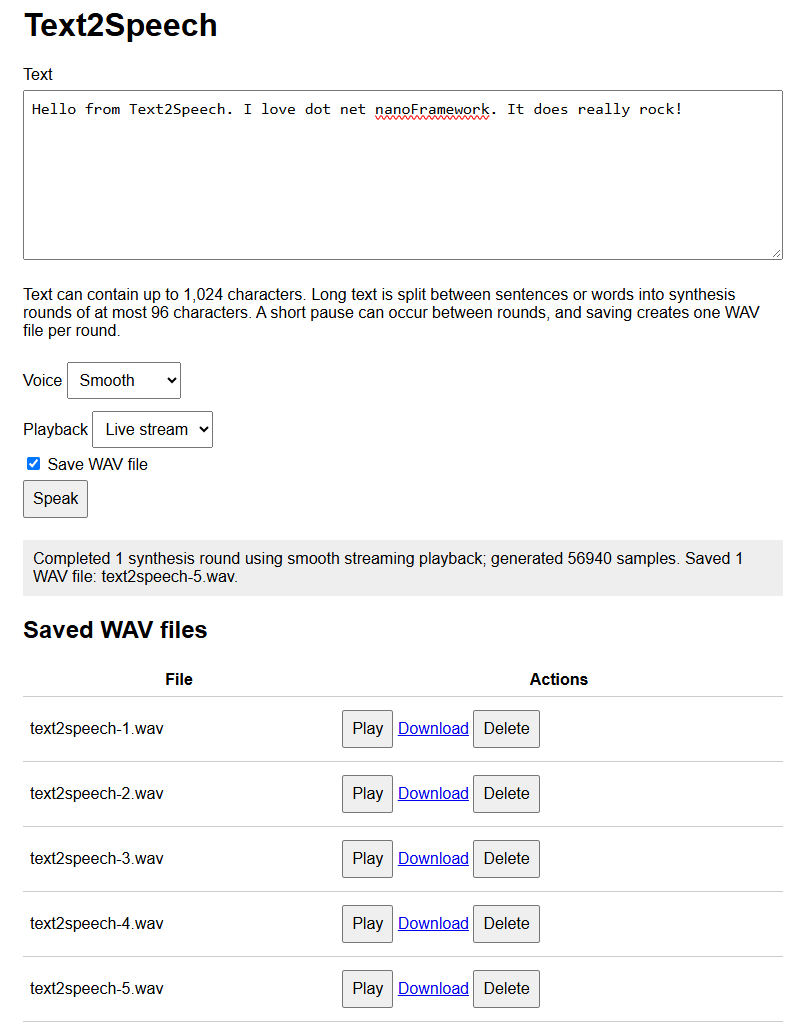
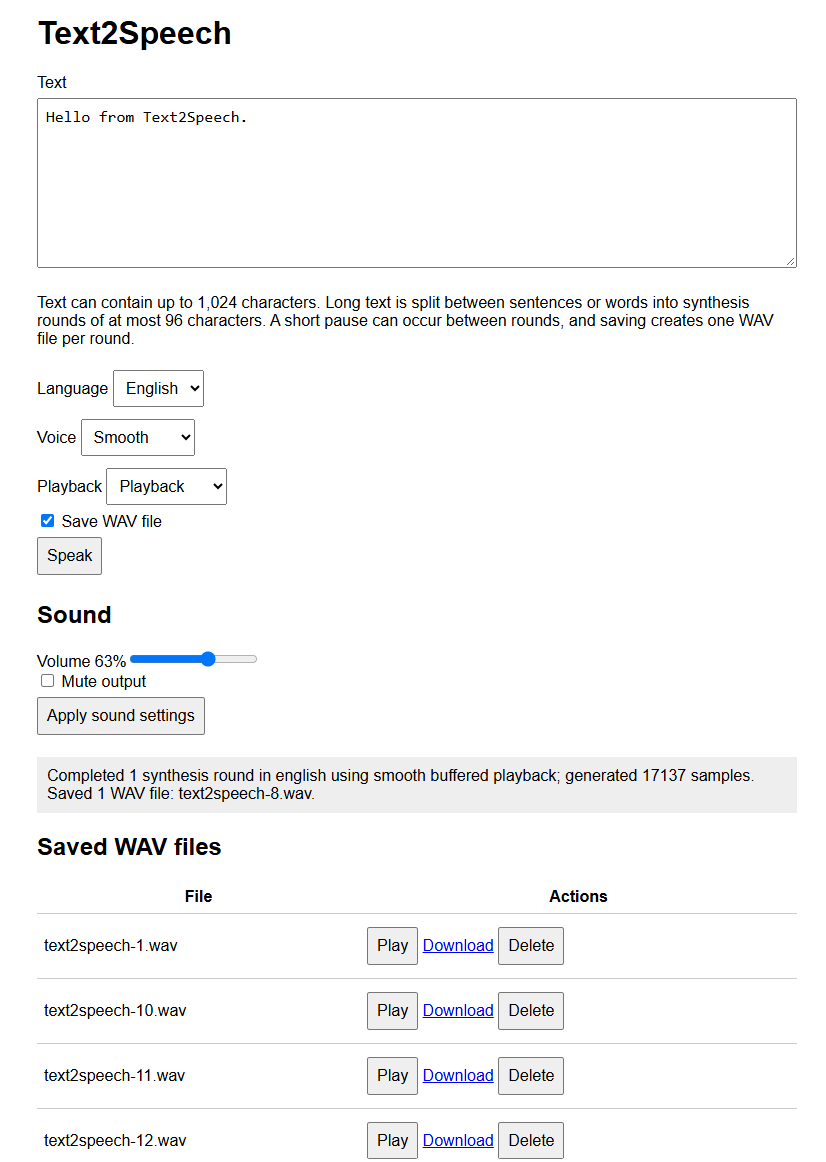
few more adjustements

diff --git a/devices/Text2Speech/samples/Text2Speech.WebServerSample/Controllers/TtsController.cs b/devices/Text2Speech/samples/Text2Speech.WebServerSample/Controllers/TtsController.cs
@@ -122,6 +122,13 @@ namespace Iot.Device.Text2Speech.WebServerSample
             + "<option value='streaming'>Live stream</option></select></label>"
             + "<label><input type='checkbox' name='save' value='true' checked> Save WAV file</label>"
             + "<button type='submit'>Speak</button></form>"
+            + "<h2>Sound</h2><form id='sound'><label>Volume <output id='volumeValue'>"
+            + Esp32S3BoxLiteWavPlayer.DefaultVolumePercent.ToString()
+            + "%</output><input id='volume' type='range' name='volume' min='0' max='100' value='"
+            + Esp32S3BoxLiteWavPlayer.DefaultVolumePercent.ToString()
+            + "' oninput=\"document.getElementById('volumeValue').textContent=this.value+'%'\"></label>"
+            + "<label><input type='checkbox' name='muted' value='true'> Mute output</label>"
+            + "<button type='submit'>Apply sound settings</button></form>"
             + "<p id='status' class='status'>Ready.</p><h2>Saved WAV files</h2>"
             + "<div id='files'>Loading...</div><script>"
             + "async function loadFiles(){let r=await fetch('/files');document.getElementById('files').innerHTML=await r.text();}"
@@ -130,6 +137,11 @@ namespace Iot.Device.Text2Speech.WebServerSample
             + "try{let r=await fetch('/speak',{method:'POST',headers:{'Content-Type':'application/x-www-form-urlencoded'},"
             + "body:new URLSearchParams(new FormData(this))});s.textContent=await r.text();await loadFiles();}"
             + "catch(x){s.textContent='Request failed: '+x;}};"
+            + "document.getElementById('sound').onsubmit=async function(e){e.preventDefault();"
+            + "let s=document.getElementById('status');s.textContent='Applying sound settings...';"
+            + "try{let r=await fetch('/sound',{method:'POST',headers:{'Content-Type':'application/x-www-form-urlencoded'},"
+            + "body:new URLSearchParams(new FormData(this))});s.textContent=await r.text();}"
+            + "catch(x){s.textContent='Sound request failed: '+x;}};"
             + "async function playFile(f){let s=document.getElementById('status');s.textContent='Playing WAV...';"
             + "try{let r=await fetch('/play',{method:'POST',headers:{'Content-Type':'application/x-www-form-urlencoded'},"
             + "body:new URLSearchParams(new FormData(f))});s.textContent=await r.text();}"
@@ -290,6 +302,50 @@ namespace Iot.Device.Text2Speech.WebServerSample
             catch (Exception ex)
             {
                 WriteFailure(e.Context.Response, "Speech request failed", ex);
+            }
+        }
+
+        /// <summary>
+        /// Updates the shared codec volume and mute state.
+        /// </summary>
+        /// <param name="e">The web server request.</param>
+        [Route("sound")]
+        [Method("POST")]
+        public void Sound(WebServerEventArgs e)
+        {
+            try
+            {
+                UrlParameter[] form = ReadForm(e.Context.Request);
+                byte volume;
+                if (!TryParseVolume(GetFormValue(form, "volume"), out volume))
+                {
+                    WriteResponse(
+                        e.Context.Response,
+                        HttpStatusCode.BadRequest,
+                        "text/plain",
+                        "Volume must be an integer from 0 through 100.");
+                    return;
+                }
+
+                bool muted = GetFormValue(form, "muted") == "true";
+                lock (OperationLock)
+                {
+                    _player.Volume = volume;
+                    _player.Muted = muted;
+                }
+
+                string message = muted
+                    ? "Sound muted at " + volume.ToString() + "% volume."
+                    : "Volume set to " + volume.ToString() + "%.";
+                WriteResponse(
+                    e.Context.Response,
+                    HttpStatusCode.OK,
+                    "text/plain",
+                    message);
+            }
+            catch (Exception ex)
+            {
+                WriteFailure(e.Context.Response, "Sound settings failed", ex);
             }
         }
 
@@ -616,6 +672,35 @@ namespace Iot.Device.Text2Speech.WebServerSample
         {
             int separator = path.LastIndexOf('\\');
             return separator >= 0 ? path.Substring(separator + 1) : path;
+        }
+
+        private static bool TryParseVolume(string value, out byte volume)
+        {
+            volume = 0;
+            if (string.IsNullOrEmpty(value) || value.Length > 3)
+            {
+                return false;
+            }
+
+            int parsed = 0;
+            for (int i = 0; i < value.Length; i++)
+            {
+                char digit = value[i];
+                if (digit < '0' || digit > '9')
+                {
+                    return false;
+                }
+
+                parsed = (parsed * 10) + digit - '0';
+            }
+
+            if (parsed > 100)
+            {
+                return false;
+            }
+
+            volume = (byte)parsed;
+            return true;
         }
 
         private static bool IsWavFileName(string name)

diff --git a/devices/Text2Speech/samples/Text2Speech.Samples/Audio/Esp32S3BoxLiteWavPlayer.cs b/devices/Text2Speech/samples/Text2Speech.Samples/Audio/Esp32S3BoxLiteWavPlayer.cs
@@ -18,6 +18,8 @@ namespace Iot.Device.Text2Speech.Samples
     /// </summary>
     internal sealed class Esp32S3BoxLiteWavPlayer : IDisposable
     {
+        internal const byte DefaultVolumePercent = 70;
+
         private const int I2sBus = 1;
         private const int I2cBus = 1;
         private const int I2cDataPin = 8;
@@ -27,7 +29,6 @@ namespace Iot.Device.Text2Speech.Samples
         private const int I2sWordSelectPin = 47;
         private const int I2sDataOutPin = 15;
         private const int PowerAmplifierPin = 46;
-        private const byte VolumePercent = 70;
         private const int FastPlaybackSampleRate = 8000;
         private const int InterpolatedPlaybackSampleRate = 16000;
         private const int I2sBufferSize = 40000;
@@ -66,6 +67,12 @@ namespace Iot.Device.Text2Speech.Samples
         {
             if (playbackMode != I2sPlaybackMode.Fast8Khz
                 && playbackMode != I2sPlaybackMode.Interpolated16Khz)
+            {
+                throw new ArgumentOutOfRangeException();
+            }
+
+            if (startupBlockCount < InterpolatedI2sPcmSink.MinimumStartupBlockCount
+                || startupBlockCount > InterpolatedI2sPcmSink.MaximumStartupBlockCount)
             {
                 throw new ArgumentOutOfRangeException();
             }
@@ -111,7 +118,7 @@ namespace Iot.Device.Text2Speech.Samples
             _i2sDevice.Write(new byte[512]);
             _dac.Initialize();
             _dac.SetFormat(SerialAudioFormat.I2s, WordLength.Bits16);
-            _dac.Volume = VolumePercent;
+            _dac.Volume = DefaultVolumePercent;
             _dac.Muted = false;
             _powerAmplifier.Write(PinValue.High);
 
@@ -120,6 +127,37 @@ namespace Iot.Device.Text2Speech.Samples
                 + "% volume; ESP32-S3-BOX-Lite amplifier enabled; playback="
                 + _playbackMode.ToString() + "; startup-blocks="
                 + startupBlockCount.ToString() + ".");
+        }
+
+        /// <summary>
+        /// Gets or sets the codec output volume percentage.
+        /// </summary>
+        /// <value>The output volume from 0 through 100.</value>
+        /// <exception cref="ArgumentOutOfRangeException">
+        /// The assigned value is greater than 100.
+        /// </exception>
+        public byte Volume
+        {
+            get => _dac.Volume;
+            set
+            {
+                if (value > 100)
+                {
+                    throw new ArgumentOutOfRangeException();
+                }
+
+                _dac.Volume = value;
+            }
+        }
+
+        /// <summary>
+        /// Gets or sets a value indicating whether codec output is muted.
+        /// </summary>
+        /// <value><see langword="true" /> when muted; otherwise, <see langword="false" />.</value>
+        public bool Muted
+        {
+            get => _dac.Muted;
+            set => _dac.Muted = value;
         }
 
         /// <summary>

diff --git a/devices/Text2Speech/samples/Text2Speech.WebServerSample/Program.cs b/devices/Text2Speech/samples/Text2Speech.WebServerSample/Program.cs
@@ -33,22 +33,24 @@ namespace Iot.Device.Text2Speech.WebServerSample
             Esp32S3BoxLiteWavPlayer player = null;
             try
             {
-                CancellationTokenSource timeout =
-                    new CancellationTokenSource(WifiTimeoutMilliseconds);
                 bool connected;
-                if (string.IsNullOrEmpty(WifiSsid) || string.IsNullOrEmpty(WifiPassword))
+                using (CancellationTokenSource timeout =
+                    new CancellationTokenSource(WifiTimeoutMilliseconds))
                 {
-                    connected = WifiNetworkHelper.Reconnect(
-                        requiresDateTime: false,
-                        token: timeout.Token);
-                }
-                else
-                {
-                    connected = WifiNetworkHelper.ConnectDhcp(
-                        WifiSsid,
-                        WifiPassword,
-                        requiresDateTime: false,
-                        token: timeout.Token);
+                    if (string.IsNullOrEmpty(WifiSsid) || string.IsNullOrEmpty(WifiPassword))
+                    {
+                        connected = WifiNetworkHelper.Reconnect(
+                            requiresDateTime: false,
+                            token: timeout.Token);
+                    }
+                    else
+                    {
+                        connected = WifiNetworkHelper.ConnectDhcp(
+                            WifiSsid,
+                            WifiPassword,
+                            requiresDateTime: false,
+                            token: timeout.Token);
+                    }
                 }
 
                 if (!connected)

diff --git a/devices/Text2Speech/tests/Text2Speech.Tests/Synthesis/TtsSynthesizerTests.cs b/devices/Text2Speech/tests/Text2Speech.Tests/Synthesis/TtsSynthesizerTests.cs
@@ -223,8 +223,13 @@ namespace Iot.Device.Text2Speech.Tests
         {
             TtsSynthesizer synthesizer = CreateEnglishSynthesizer();
 
-            Assert.AreEqual(2424, synthesizer.Speak("any").Length, "Any pronunciation");
-            Assert.AreEqual(2472, synthesizer.Speak("other").Length, "Other pronunciation");
+            byte[] any = synthesizer.Speak("any");
+            byte[] other = synthesizer.Speak("other");
+
+            Assert.AreEqual(2424, any.Length, "Any pronunciation length");
+            Assert.AreEqual((uint)2842794339, ComputeHash(any), "Any pronunciation PCM");
+            Assert.AreEqual(2472, other.Length, "Other pronunciation length");
+            Assert.AreEqual((uint)3741042, ComputeHash(other), "Other pronunciation PCM");
             Assert.IsTrue(
                 synthesizer.Speak("any other name").Length > 5000,
                 "Reported phrase must produce complete speech");

diff --git a/devices/Text2Speech/samples/Text2Speech.Samples/Audio/InterpolatedI2sPcmSink.cs b/devices/Text2Speech/samples/Text2Speech.Samples/Audio/InterpolatedI2sPcmSink.cs
@@ -13,6 +13,9 @@ namespace Iot.Device.Text2Speech.Samples
     /// </summary>
     internal sealed class InterpolatedI2sPcmSink : IPcmSink
     {
+        internal const int MinimumStartupBlockCount = 1;
+        internal const int MaximumStartupBlockCount = QueueBlockCount;
+
         private const int QueueBlockSize = 2048;
         private const int QueueBlockCount = 8;
         private const int HeartbeatIntervalMilliseconds = 50;
@@ -71,7 +74,8 @@ namespace Iot.Device.Text2Speech.Samples
             bool interpolate,
             int startupBlockCount)
         {
-            if (startupBlockCount < 1 || startupBlockCount > QueueBlockCount)
+            if (startupBlockCount < MinimumStartupBlockCount
+                || startupBlockCount > MaximumStartupBlockCount)
             {
                 throw new ArgumentOutOfRangeException();
             }

diff --git a/devices/Text2Speech/README.md b/devices/Text2Speech/README.md
@@ -283,6 +283,7 @@ The page at `/` provides:
 - Text input up to 1,024 characters. The server prefers sentence boundaries and then word boundaries when splitting it into synthesis rounds of at most 96 characters. Buffered mode can pause briefly between rounds; streaming mode keeps one continuous playback session.
 - English or French language selection, with language-aware segmentation and synthesis.
 - Smooth, fast-bright, and deep predefined voice profiles for either language.
+- Hardware output volume from 0% through 100% and a mute control, applied to speech and saved-WAV playback.
 - Buffered playback or live streaming selection.
 - WAV saving enabled by default, with one counter-named WAV file created for every synthesis round.
 - A live list of saved WAV files with device playback, download, and delete actions.
@@ -293,6 +294,7 @@ HTTP routes:
 
 - `GET /`: static browser application.
 - `POST /speak`: URL-encoded language, text, voice, playback mode, and save option.
+- `POST /sound`: validated codec volume percentage and mute state.
 - `GET /files`: current WAV file table fragment.
 - `POST /play`: validated playback of a stored canonical unsigned 8-bit mono 8 kHz WAV through the device.
 - `GET /download?name=...`: WAV download.
@@ -329,7 +331,7 @@ Tests cover format constants, deterministic synthesis, buffered/streamed equival
 - The separately packaged English and French frontends are intentionally compact; other languages require their own `ITtsLanguage` and `ITtsLanguageFrontend` implementation, phoneme inventory, normalization, spelling, stress, and intonation rules.
 - French pronunciation is rule based. Its embedded prosody was distilled from HI! PARIS SSML output and French accentual-group behavior: approximately 2% slower segment timing, short word joins, final-vowel lengthening, continuation rises, declarative falls, question rises, and differentiated comma, clause, and terminal pauses. It does not provide a full lexicon, optional liaison, grammatical disambiguation, or exact acoustic nasal coupling, so irregular and context-sensitive words remain approximate.
 - French oral-vowel F1/F2 targets are conservatively calibrated halfway toward single-speaker native-French measurements extracted from the Cnam-LMSSC Multilingual LibriSpeech French Phoneme dataset. F3, amplitudes, pitch, duration, schwa, and nasal-vowel targets remain independently tuned so acoustic changes can be evaluated separately.
-- English F1/F2 targets with direct General American matches are conservatively calibrated halfway toward the adult-male medians from Hillenbrand et al. (1995). Diphthong targets use the measured 20% and 80% contours. F3, amplitudes, pitch, duration, unsupported vowels, and rhotic variants without direct matches remain independently tuned.
+- English F1/F2 targets with direct General American matches are conservatively calibrated using numerical outputs independently calculated by the local acoustic-analysis pipeline. Diphthong targets use independently calculated early and late vowel contours. F3, amplitudes, pitch, duration, unsupported vowels, and rhotic variants without direct matches remain independently tuned.
 - To generate the French Prosology, we've been using HI! PARIS two-stage Qwen2.5-7B cascade on a host computer and converts its SSML into bounded pitch, speed, volume, and pause controls. The generated controls are development artifacts; the firmware frontend continues to use its built-in deterministic contour until a continuous span-level runtime bridge is added.
 - Input and phonemes are bounded by the selected language and the fixed 128-entry `TtsPhonemeBuffer` to keep memory deterministic.
 - The 8 kHz output favors size and embedded cost over high-fidelity speech.
@@ -337,4 +339,4 @@ Tests cover format constants, deterministic synthesis, buffered/streamed equival
 
 ## License and attribution
 
-This repository is MIT licensed. The managed engine is derived from PebbleTalk at commit `8ddfbb60b9cd940a8ef4a24c3787ad211b19b003`, copyright (c) 2026 neonfire, also under the MIT License. English vowel calibration uses measurements from Hillenbrand et al. (1995), hosted with permission in Santiago Barreda's dataset repository; the repository wrapper is MIT licensed, while the original archive has no separate license. French spelling rules are independently adapted from Epitran French data (MIT, copyright 2016 David Mortensen), French cardinal behavior is adapted from Unicode CLDR data (Unicode License v3), and French oral-vowel calibration uses measurements derived from the Cnam-LMSSC Multilingual LibriSpeech French Phoneme dataset (CC BY 4.0). Host-side prosody tooling interoperates with the MIT-licensed HI! PARIS Prosody-Control-French-TTS project and separately downloaded Apache-2.0 models. See `LICENSE` and `NOTICE`.
+This repository is MIT licensed. The managed engine is derived from PebbleTalk at commit `8ddfbb60b9cd940a8ef4a24c3787ad211b19b003`, copyright (c) 2026 neonfire, also under the MIT License. English acoustic constants are independently calculated outputs of the local calibration pipeline; source measurements and recordings are not included. French spelling rules are independently adapted from Epitran French data (MIT, copyright 2016 David Mortensen), French cardinal behavior is adapted from Unicode CLDR data (Unicode License v3), and French oral-vowel calibration uses measurements derived from the Cnam-LMSSC Multilingual LibriSpeech French Phoneme dataset (CC BY 4.0). Host-side prosody tooling interoperates with the MIT-licensed HI! PARIS Prosody-Control-French-TTS project and separately downloaded Apache-2.0 models. See `LICENSE` and `NOTICE`.
